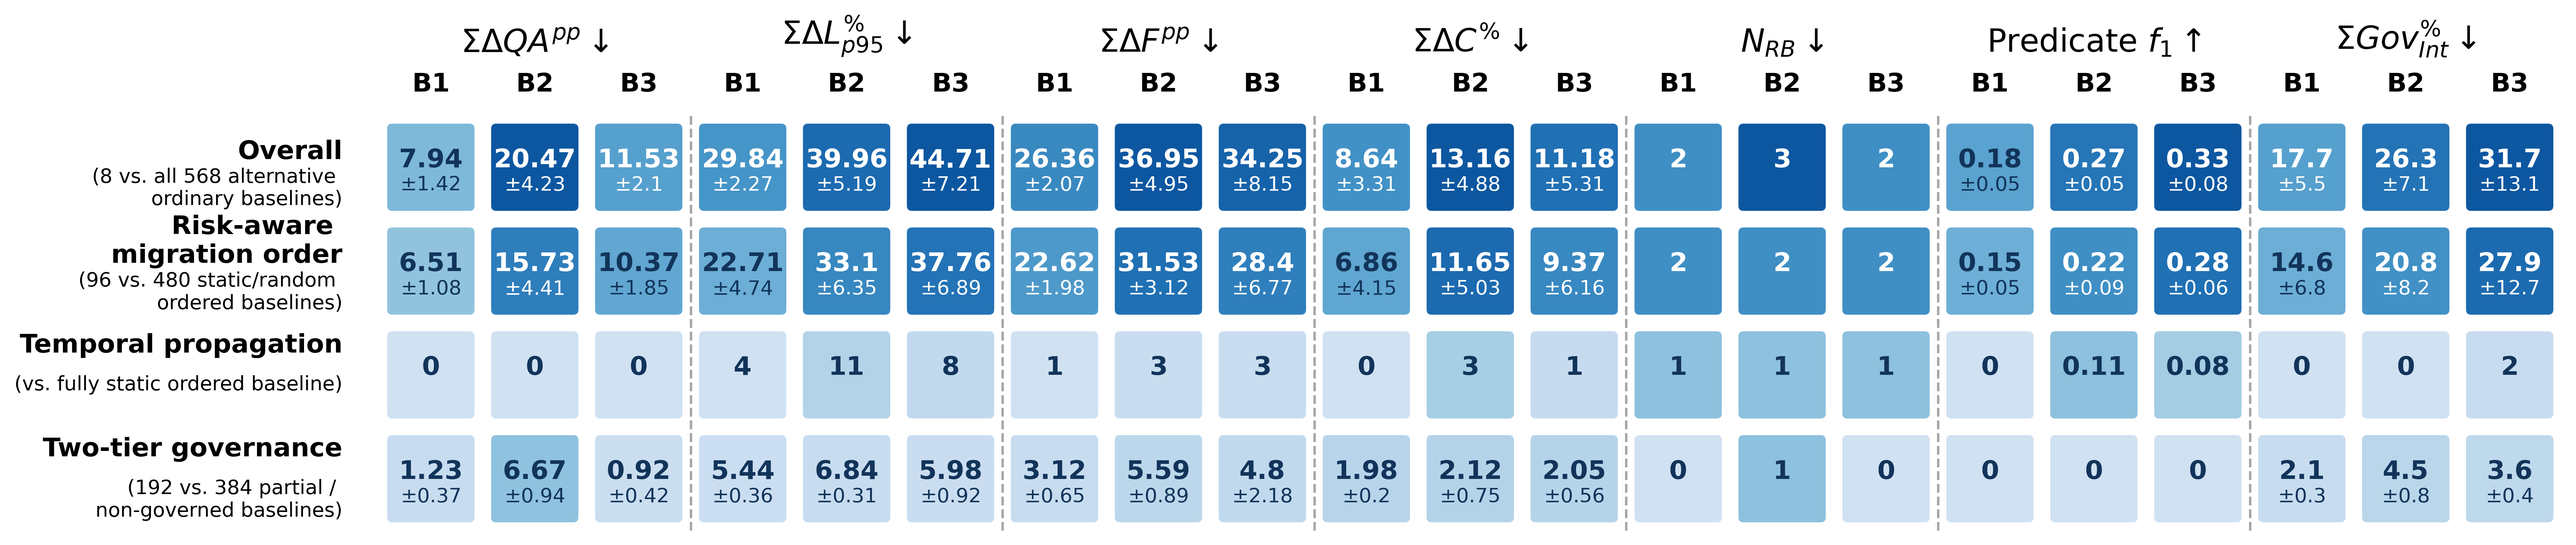
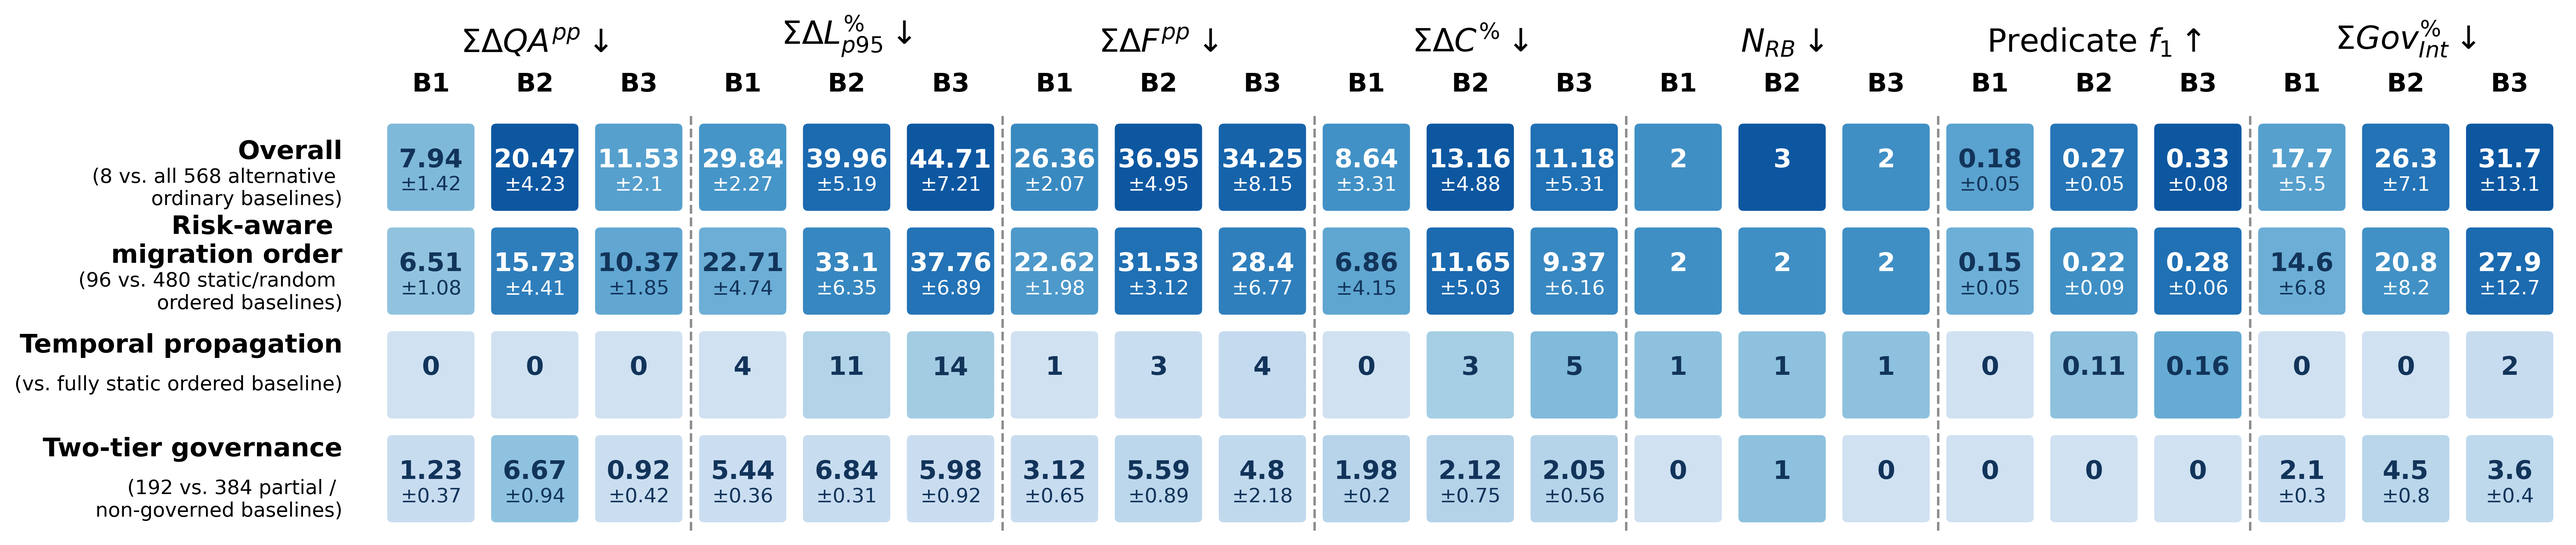
make baseline ablation experiment runner improvement

Changed region(s): [[0.3423, 0.5883, 0.4045, 0.774], [0.5912, 0.5883, 0.6534, 0.774], [0.809, 0.5883, 0.8712, 0.774]]

diff --git a/deploy_orchestration/dsb_social/baseline_ablation_progressive_refactor_orchestrator.py b/deploy_orchestration/dsb_social/baseline_ablation_progressive_refactor_orchestrator.py
@@ -180,21 +180,7 @@ service_to_agent = {
     "compose_post_service:9100": "compose_post_agent:9100",
 }
 
-# -------------------------- Apply ranking strategy -------------------------
-migration_order_strategy = "Complexity_Based" # ["Ranked", "Reverse_Ranked", "Random", "Dependency_Based", "Complexity_Based"]
 
-if migration_order_strategy == "Ranked":
-    current_services_with_scores = ranked_services.copy()
-elif migration_order_strategy == "Reverse_Ranked":
-    current_services_with_scores = reverse_ranked_services.copy()
-elif migration_order_strategy == "Random":
-    current_services_with_scores = random_ranked_services.copy()
-elif migration_order_strategy == "Dependency_Based":
-    current_services_with_scores = dependency_ranked_services.copy()
-elif migration_order_strategy == "Complexity_Based":
-    current_services_with_scores = complexity_ranked_services.copy()
-else:
-    raise ValueError(f"Invalid migration order strategy: {migration_order_strategy}")
 
 # --------------------------------- Acceptance Predicate ---------------------------
 acceptance_predicate_modes =  ["Full", "Latency-Only", "Failure-Only", "QA-Only"]
@@ -213,7 +199,7 @@ adjudication_criteria = AdjudicationCriteria(
 )
 post_action_adjudicator = PostActionAdjudicator(adjudication_criteria)
 
-temporal_propagation_enabled = False
+
 temporal_propagation_dependency_influence_weight = {
     "media_service->compose_post_service": 1,
     "user_mention_service->text_service": 1,
@@ -228,10 +214,7 @@ temporal_propagation_dependency_influence_weight = {
 }
 
 
-# ----------------- RUNTIME Configurations ----------------
-LLM = ["llama3.2:3b", "qwen3:14b"] # "llama3.2:3b" or "qwen3:14b"
-T = [0.0, 0.8] # 0 or 0.8
-CONCURRENCY_RATE = [20, 100] # concurrent requests
+
 
 
 
@@ -390,7 +373,8 @@ def run_experiment_for_step(migration_order, step_num, predicate_mode, governanc
         }
     )
     # print(f"Evidence Summary for step {step_num}:", evidence_summary)
-    print(f"Prediction Category for step {step_num}:", prediction_category)
+    print(f"Prediction Category for step {step_num}: {prediction_category}, \n\n qa_inconsistency_rate: {step_result_parsed['details']['qa_inconsistency_rate']:.4f}, p95_latency: {step_result_parsed['details']['p95_latency']:.4f}, failure_rate: {step_result_parsed['details']['failure_rate']:.4f}, temporal_propagation: {step_self_temporal_propagation:.4f} \n\n")
+
     if str(step_num)=="1":
          # For the first step, we create a new report file (overwriting if it already exists)
         with open(step_report_file_name, "w") as f:
@@ -417,12 +401,41 @@ def run_experiment_for_step(migration_order, step_num, predicate_mode, governanc
 # ---- Main Refactoring LOOP ----
 
 subprocess.run("rm -f *.log", shell=True, cwd=".", check=True)
+
+# -------------------------- Apply ranking strategy -------------------------
+migration_order_strategy = "Complexity_Based" # ["Ranked", "Reverse_Ranked", "Random", "Dependency_Based", "Complexity_Based"]
+
+# ----------------- RUNTIME Configurations ----------------
+LLM = ["llama3.2:3b", "qwen3:14b"] # "llama3.2:3b" or "qwen3:14b"
+T = [0.0, 0.8] # 0 or 0.8
+CONCURRENCY_RATE = [20, 100] # concurrent requests
     
+temporal_propagation_enabled = False
+if migration_order_strategy != 'Ranked':
+    temporal_propagation_enabled = False
+    
+        
 def init_conditions():
     subprocess.run("rm -f *.log", shell=True, cwd=".", check=True)
 
-    migration_sorting_strategy_services = complexity_ranked_services # ranked_services, reverse_ranked_services, random_ranked_services, dependency_ranked_services, complexity_ranked_services
-    current_services_with_scores = complexity_ranked_services.copy() # ranked_services, reverse_ranked_services, random_ranked_services, dependency_ranked_services, complexity_ranked_services
+    if migration_order_strategy == "Ranked":
+        current_services_with_scores = ranked_services.copy()
+        migration_sorting_strategy_services = ranked_services 
+    elif migration_order_strategy == "Reverse_Ranked":
+        current_services_with_scores = reverse_ranked_services.copy()
+        migration_sorting_strategy_services = reverse_ranked_services
+    elif migration_order_strategy == "Random":
+        current_services_with_scores = random_ranked_services.copy()
+        migration_sorting_strategy_services = random_ranked_services
+    elif migration_order_strategy == "Dependency_Based":
+        current_services_with_scores = dependency_ranked_services.copy()
+        migration_sorting_strategy_services = dependency_ranked_services
+    elif migration_order_strategy == "Complexity_Based":
+        current_services_with_scores = complexity_ranked_services.copy()
+        migration_sorting_strategy_services = complexity_ranked_services
+    else:
+        raise ValueError(f"Invalid migration order strategy: {migration_order_strategy}") 
+    
     previous_step_acceptance_types = ['N/A']
     temporal_propagations = []
     

diff --git a/deploy_orchestration/google_ms/baseline_ablation_progressive_refactor_orchestrator.py b/deploy_orchestration/google_ms/baseline_ablation_progressive_refactor_orchestrator.py
@@ -158,21 +158,7 @@ service_to_agent = {
     "currency_service:5053": "currency_agent:5053",
 }
 
-# -------------------------- Apply ranking strategy -------------------------
-migration_order_strategy = "Complexity_Based" # ["Ranked", "Reverse_Ranked", "Random", "Dependency_Based", "Complexity_Based"]
 
-if migration_order_strategy == "Ranked":
-    current_services_with_scores = ranked_services.copy()
-elif migration_order_strategy == "Reverse_Ranked":
-    current_services_with_scores = reverse_ranked_services.copy()
-elif migration_order_strategy == "Random":
-    current_services_with_scores = random_ranked_services.copy()
-elif migration_order_strategy == "Dependency_Based":
-    current_services_with_scores = dependency_ranked_services.copy()
-elif migration_order_strategy == "Complexity_Based":
-    current_services_with_scores = complexity_ranked_services.copy()
-else:
-    raise ValueError(f"Invalid migration order strategy: {migration_order_strategy}")
 
 # --------------------------------- Acceptance Predicate ---------------------------
 acceptance_predicate_modes =  ["Full", "Latency-Only", "Failure-Only", "QA-Only"]
@@ -191,7 +177,6 @@ adjudication_criteria = AdjudicationCriteria(
 )
 post_action_adjudicator = PostActionAdjudicator(adjudication_criteria)
 
-temporal_propagation_enabled = True
 temporal_propagation_dependency_influence_weight = {
     "product_catalog_service->checkout_service": 1,
     "product_catalog_service->recommendation_service": 1,
@@ -364,7 +349,9 @@ def run_experiment_for_step(migration_order, step_num, predicate_mode, governanc
         }
     )
     # print(f"Evidence Summary for step {step_num}:", evidence_summary)
-    print(f"Prediction Category for step {step_num}:", prediction_category)
+    
+    print(f"Prediction Category for step {step_num}: {prediction_category}, \n\n qa_inconsistency_rate: {step_result_parsed['details']['qa_inconsistency_rate']:.4f}, p95_latency: {step_result_parsed['details']['p95_latency']:.4f}, failure_rate: {step_result_parsed['details']['failure_rate']:.4f}, temporal_propagation: {step_self_temporal_propagation:.4f} \n\n")
+
     if str(step_num)=="1":
          # For the first step, we create a new report file (overwriting if it already exists)
         with open(step_report_file_name, "w") as f:
@@ -391,12 +378,40 @@ def run_experiment_for_step(migration_order, step_num, predicate_mode, governanc
 # ---- Main Refactoring LOOP ----
 
 subprocess.run("rm -f *.log", shell=True, cwd=".", check=True)
-    
+
+# -------------------------- Apply ranking strategy -------------------------
+migration_order_strategy = "Complexity_Based" # ["Ranked", "Reverse_Ranked", "Random", "Dependency_Based", "Complexity_Based"]
+
+# ----------------- RUNTIME Configurations ----------------
+LLM = ["llama3.2:3b", "qwen3:14b"] # "llama3.2:3b" or "qwen3:14b"
+T = [0.0, 0.8] # 0 or 0.8
+CONCURRENCY_RATE = [20, 100] # concurrent requests
+
+temporal_propagation_enabled = False
+if migration_order_strategy != 'Ranked':
+    temporal_propagation_enabled = False
+        
 def init_conditions():
     subprocess.run("rm -f *.log", shell=True, cwd=".", check=True)
 
-    migration_sorting_strategy_services = complexity_ranked_services # ranked_services, reverse_ranked_services, random_ranked_services, dependency_ranked_services, complexity_ranked_services
-    current_services_with_scores = complexity_ranked_services.copy() # ranked_services, reverse_ranked_services, random_ranked_services, dependency_ranked_services, complexity_ranked_services
+    if migration_order_strategy == "Ranked":
+        current_services_with_scores = ranked_services.copy()
+        migration_sorting_strategy_services = ranked_services 
+    elif migration_order_strategy == "Reverse_Ranked":
+        current_services_with_scores = reverse_ranked_services.copy()
+        migration_sorting_strategy_services = reverse_ranked_services
+    elif migration_order_strategy == "Random":
+        current_services_with_scores = random_ranked_services.copy()
+        migration_sorting_strategy_services = random_ranked_services
+    elif migration_order_strategy == "Dependency_Based":
+        current_services_with_scores = dependency_ranked_services.copy()
+        migration_sorting_strategy_services = dependency_ranked_services
+    elif migration_order_strategy == "Complexity_Based":
+        current_services_with_scores = complexity_ranked_services.copy()
+        migration_sorting_strategy_services = complexity_ranked_services
+    else:
+        raise ValueError(f"Invalid migration order strategy: {migration_order_strategy}") 
+   
     previous_step_acceptance_types = ['N/A']
     temporal_propagations = []
     

diff --git a/deploy_orchestration/retailben/baseline_ablation_progressive_refactor_orchestrator.py b/deploy_orchestration/retailben/baseline_ablation_progressive_refactor_orchestrator.py
@@ -231,7 +231,7 @@ def deploy(services, agents):
     print("Services:", services)
     print("Agents:", agents)
 
-    # subprocess.run([DEPLOY_SCRIPT] + args, check=True)
+    subprocess.run([DEPLOY_SCRIPT] + args, check=True)
 
 def shutdown(services, agents):
     SD_SCRIPT = "./shutdown-local.sh"
@@ -241,7 +241,7 @@ def shutdown(services, agents):
     print("Services:", services)
     print("Agents:", agents)
 
-    # subprocess.run([SD_SCRIPT] + args, check=True)
+    subprocess.run([SD_SCRIPT] + args, check=True)
 
 
 def run_experiment_for_step(migration_order, step_num, predicate_mode, governance_policy, services, agents,
@@ -266,7 +266,7 @@ def run_experiment_for_step(migration_order, step_num, predicate_mode, governanc
         epsilon_qa = -1
 
     step_result = subprocess.run(
-        ["python3", "exp_runner_auto2.py",
+        ["python3", "exp_runner_auto.py",
          migration_order,
          predicate_mode, str(step_num), ",".join(services), ",".join(agents),
          str(epsilon_l), str(epsilon_qa), str(epsilon_f), str(governance_policy),

diff --git a/figures/plot_ablation_study_results_heatmap.py b/figures/plot_ablation_study_results_heatmap.py
@@ -40,7 +40,7 @@ qa_errors = np.array([
 latency_values = np.array([
     [29.84,  39.96, 44.71],
     [22.71, 33.10, 37.76],
-    [4.00, 11.00, 8.00],
+    [4.00, 11.00, 14.00],
     [5.44, 6.84, 5.98]
 ])
 
@@ -60,7 +60,7 @@ failure_values = np.array([
 28.40,],
     [1.00,
 3.00,
-3.00,],
+4.00,],
     [3.12,
 5.59,
 4.80]
@@ -86,7 +86,7 @@ cost_values = np.array([
     [6.86, 
  11.65,
  9.37,],
-    [0, 3, 1],
+    [0, 3, 5],
     [1.98,
 2.12,
 2.05]
@@ -137,7 +137,7 @@ f1_values = np.array([
 0.28,],
     [0,   
 0.11,
-0.08,],
+0.16,],
     [0,
 0,
 0]
@@ -389,7 +389,7 @@ for x in range(3, len(metrics) * 3, 3):
         color='gray',
         linestyle='--',
         linewidth=1.2,
-        alpha=0.7,
+        alpha=0.9,
         zorder=0
     )
 # mpl.rcParams["font.family"] = "STIXGeneral"
